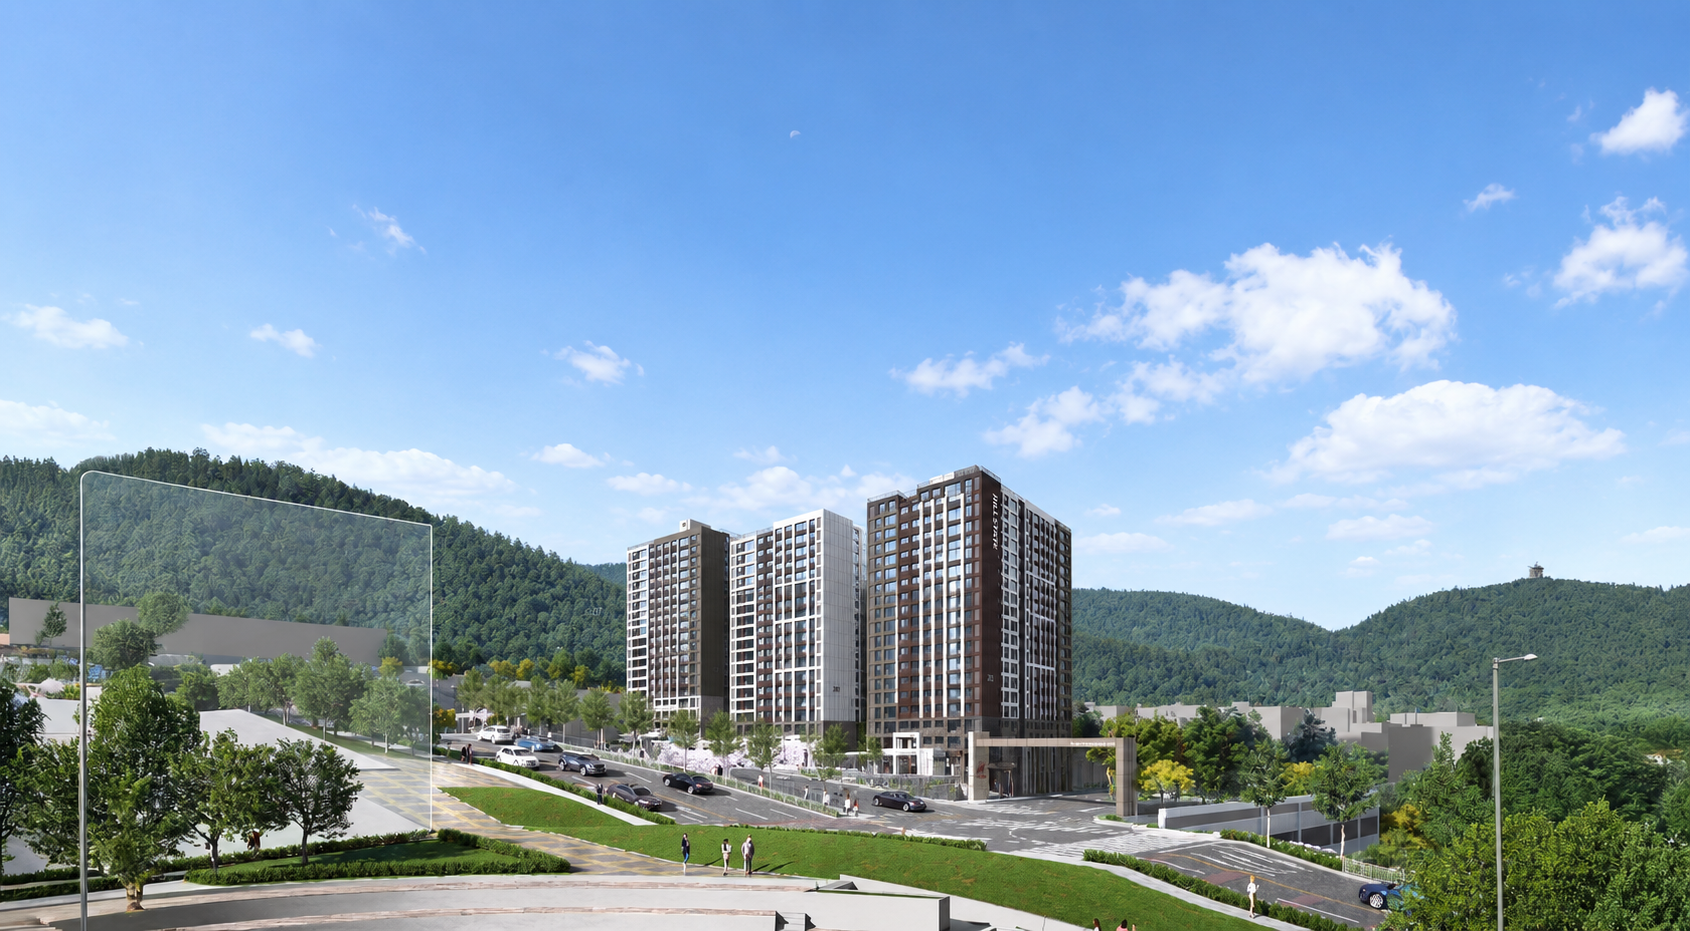
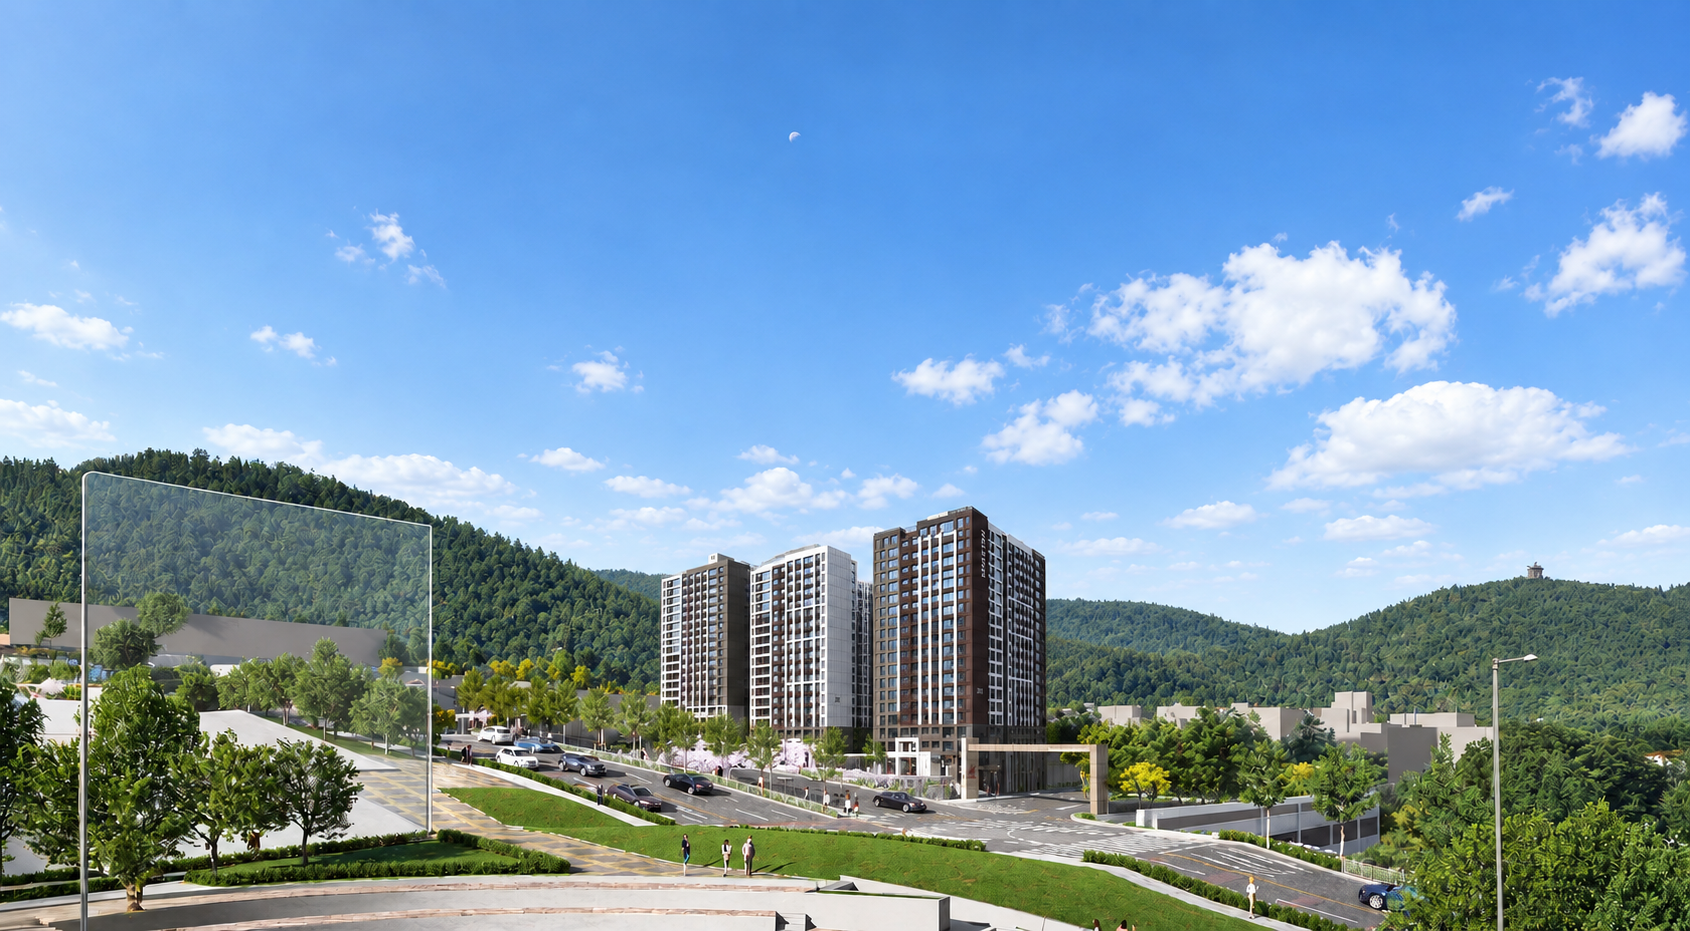
feat : 수정

diff --git a/src/pages/Main/Main.module.scss b/src/pages/Main/Main.module.scss
@@ -144,7 +144,7 @@
     .mainImageTextBox1 {
       font-family: 'Pretendard-Regular';
       position: absolute;
-      top: 28%; /* 모바일에서 더 상단에 위치 */
+      top: 20%; /* 모바일에서 더 상단에 위치 */
       left: 50%;
       transform: translateX(-50%); /* 중앙 정렬 */
       color: #ffffff;
